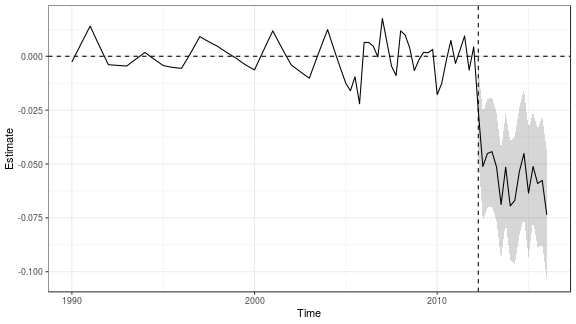
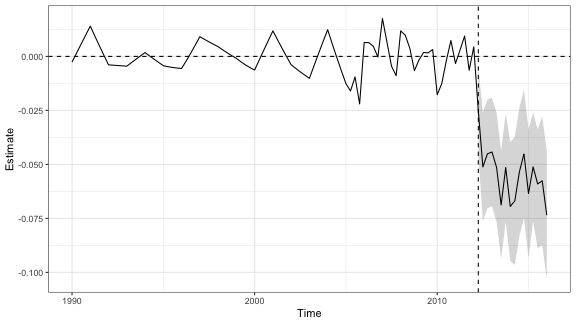
Updated single augsynth vignette to invlude test statistic change

diff --git a/vignettes/singlesynth-vignette.md b/vignettes/singlesynth-vignette.md
@@ -77,32 +77,105 @@ summary(syn)
 #> single_augsynth(form = form, unit = !!enquo(unit), time = !!enquo(time), 
 #>     t_int = t_int, data = data, progfunc = "None", scm = ..2)
 #> 
-#> Average ATT Estimate (p Value for Joint Null):  -0.029   ( 0.342 )
+#> Average ATT Estimate (p Value for Joint Null):  -0.029   ( 0.323 )
 #> L2 Imbalance: 0.083
 #> Percent improvement from uniform weights: 79.5%
 #> 
-#> Avg Estimated Bias: 0.000
+#> Avg Estimated Bias: NA
 #> 
 #> Inference type: Conformal inference
 #> 
-#>     Time    Estimate 95% CI Lower Bound 95% CI Upper Bound    p Value
-#>  2012.25 -0.01807275        -0.04461946       0.0059457035 0.11111111
-#>  2012.50 -0.04105313        -0.07012810      -0.0145064170 0.02222222
-#>  2012.75 -0.03310023        -0.06217519      -0.0065535146 0.04444444
-#>  2013.00 -0.01940747        -0.04595418       0.0046109870 0.11111111
-#>  2013.25 -0.02915453        -0.05317298      -0.0051360786 0.04444444
-#>  2013.50 -0.04626635        -0.07281306      -0.0222478978 0.02222222
-#>  2013.75 -0.03181209        -0.05583054      -0.0103218972 0.02222222
-#>  2014.00 -0.04476664        -0.07384161      -0.0182199278 0.02222222
-#>  2014.25 -0.04267269        -0.07427592      -0.0135977204 0.02222222
-#>  2014.50 -0.02940448        -0.06100771      -0.0003295131 0.04444444
-#>  2014.75 -0.01849616        -0.05262764       0.0105788120 0.14444444
-#>  2015.00 -0.02930564        -0.06596539       0.0048258429 0.07777778
-#>  2015.25 -0.01908377        -0.05068700       0.0099911959 0.12222222
-#>  2015.50 -0.02162342        -0.05575491       0.0074515445 0.11111111
-#>  2015.75 -0.01856676        -0.05522650       0.0130364708 0.18888889
-#>  2016.00 -0.02816962        -0.06735762       0.0084901215 0.10000000
+#>     Time Estimate 95% CI Lower Bound 95% CI Upper Bound p Value
+#>  2012.25   -0.018             -0.045              0.006   0.111
+#>  2012.50   -0.041             -0.070             -0.015   0.022
+#>  2012.75   -0.033             -0.062             -0.007   0.044
+#>  2013.00   -0.019             -0.046              0.005   0.111
+#>  2013.25   -0.029             -0.053             -0.005   0.044
+#>  2013.50   -0.046             -0.073             -0.022   0.022
+#>  2013.75   -0.032             -0.056             -0.010   0.022
+#>  2014.00   -0.045             -0.074             -0.018   0.022
+#>  2014.25   -0.043             -0.074             -0.014   0.022
+#>  2014.50   -0.029             -0.061              0.000   0.044
+#>  2014.75   -0.018             -0.053              0.011   0.144
+#>  2015.00   -0.029             -0.066              0.005   0.078
+#>  2015.25   -0.019             -0.051              0.010   0.122
+#>  2015.50   -0.022             -0.056              0.007   0.111
+#>  2015.75   -0.019             -0.055              0.013   0.189
+#>  2016.00   -0.028             -0.067              0.008   0.100
 ```
+
+
+The default test statistic is the sum of the absolute treatment efects `function(x) sum(abs(x))`. We can change the test statistic via the `stat_func` argument. For instance, if we want to perform a one-way test against postive effects, we can set the test stastic to be the negative sum `function(x) -sum(x)`:
+
+```r
+summary(syn, stat_func = function(x) -sum(x))
+#> 
+#> Call:
+#> single_augsynth(form = form, unit = !!enquo(unit), time = !!enquo(time), 
+#>     t_int = t_int, data = data, progfunc = "None", scm = ..2)
+#> 
+#> Average ATT Estimate (p Value for Joint Null):  -0.029   ( 0.161 )
+#> L2 Imbalance: 0.083
+#> Percent improvement from uniform weights: 79.5%
+#> 
+#> Avg Estimated Bias: NA
+#> 
+#> Inference type: Conformal inference
+#> 
+#>     Time Estimate 95% CI Lower Bound 95% CI Upper Bound p Value
+#>  2012.25   -0.018             -0.080              0.006   0.067
+#>  2012.50   -0.041             -0.103             -0.015   0.022
+#>  2012.75   -0.033             -0.095             -0.007   0.033
+#>  2013.00   -0.019             -0.081              0.005   0.067
+#>  2013.25   -0.029             -0.091             -0.005   0.033
+#>  2013.50   -0.046             -0.108             -0.022   0.022
+#>  2013.75   -0.032             -0.094             -0.010   0.022
+#>  2014.00   -0.045             -0.107             -0.021   0.022
+#>  2014.25   -0.043             -0.105             -0.014   0.022
+#>  2014.50   -0.029             -0.091              0.000   0.033
+#>  2014.75   -0.018             -0.080              0.011   0.078
+#>  2015.00   -0.029             -0.091              0.005   0.056
+#>  2015.25   -0.019             -0.081              0.007   0.078
+#>  2015.50   -0.022             -0.084              0.007   0.067
+#>  2015.75   -0.019             -0.081              0.013   0.111
+#>  2016.00   -0.028             -0.090              0.008   0.067
+```
+Or if we want to priotize testing the average post-treatment effect, we can set it to be the absolute sum:
+
+```r
+summary(syn, stat_func = function(x) sum(x))
+#> 
+#> Call:
+#> single_augsynth(form = form, unit = !!enquo(unit), time = !!enquo(time), 
+#>     t_int = t_int, data = data, progfunc = "None", scm = ..2)
+#> 
+#> Average ATT Estimate (p Value for Joint Null):  -0.029   ( 0.828 )
+#> L2 Imbalance: 0.083
+#> Percent improvement from uniform weights: 79.5%
+#> 
+#> Avg Estimated Bias: NA
+#> 
+#> Inference type: Conformal inference
+#> 
+#>     Time Estimate 95% CI Lower Bound 95% CI Upper Bound p Value
+#>  2012.25   -0.018             -0.035              0.044   0.944
+#>  2012.50   -0.041             -0.060              0.021   0.989
+#>  2012.75   -0.033             -0.052              0.029   0.978
+#>  2013.00   -0.019             -0.038              0.043   0.944
+#>  2013.25   -0.029             -0.046              0.033   0.978
+#>  2013.50   -0.046             -0.065              0.016   0.989
+#>  2013.75   -0.032             -0.048              0.030   0.989
+#>  2014.00   -0.045             -0.064              0.017   0.989
+#>  2014.25   -0.043             -0.064              0.019   0.989
+#>  2014.50   -0.029             -0.051              0.033   0.978
+#>  2014.75   -0.018             -0.040              0.043   0.933
+#>  2015.00   -0.029             -0.053              0.033   0.956
+#>  2015.25   -0.019             -0.041              0.043   0.933
+#>  2015.50   -0.022             -0.043              0.040   0.944
+#>  2015.75   -0.019             -0.043              0.043   0.900
+#>  2016.00   -0.028             -0.055              0.034   0.944
+```
+
 
 It's easier to see this information visually. Below we plot the difference between Kansas and it's synthetic control. Before the tax cuts (to the left of the dashed line) we expect these to be close, and after the tax cuts we measure the effect (with point-wise confidence intervals).
 
@@ -152,31 +225,31 @@ summary(asyn)
 #> single_augsynth(form = form, unit = !!enquo(unit), time = !!enquo(time), 
 #>     t_int = t_int, data = data, progfunc = "Ridge", scm = ..2)
 #> 
-#> Average ATT Estimate (p Value for Joint Null):  -0.040   ( 0.079 )
+#> Average ATT Estimate (p Value for Joint Null):  -0.040   ( 0.075 )
 #> L2 Imbalance: 0.062
 #> Percent improvement from uniform weights: 84.7%
 #> 
-#> Avg Estimated Bias: 0.000
+#> Avg Estimated Bias: 0.011
 #> 
 #> Inference type: Conformal inference
 #> 
-#>     Time    Estimate 95% CI Lower Bound 95% CI Upper Bound    p Value
-#>  2012.25 -0.02233432        -0.04432874        0.003043846 0.05555556
-#>  2012.50 -0.04703842        -0.07580034       -0.018276493 0.02222222
-#>  2012.75 -0.04252002        -0.07128194       -0.010374336 0.02222222
-#>  2013.00 -0.02967474        -0.05505291       -0.004296572 0.03333333
-#>  2013.25 -0.04119699        -0.06657516       -0.012435060 0.02222222
-#>  2013.50 -0.05922698        -0.08798891       -0.030465057 0.02222222
-#>  2013.75 -0.04466913        -0.07343106       -0.019290964 0.02222222
-#>  2014.00 -0.05803598        -0.09018166       -0.025890300 0.02222222
-#>  2014.25 -0.05516412        -0.09069356       -0.019634680 0.02222222
-#>  2014.50 -0.04148561        -0.08039881       -0.005956177 0.03333333
-#>  2014.75 -0.02923219        -0.06814538        0.006297248 0.05555556
-#>  2015.00 -0.04004239        -0.08233934        0.000000000 0.05555556
-#>  2015.25 -0.03045080        -0.06598023        0.001694886 0.05555556
-#>  2015.50 -0.03269061        -0.07160380        0.002838827 0.05555556
-#>  2015.75 -0.02895347        -0.07125042        0.009959725 0.05555556
-#>  2016.00 -0.03829085        -0.08735531        0.004006102 0.05555556
+#>     Time Estimate 95% CI Lower Bound 95% CI Upper Bound p Value
+#>  2012.25   -0.022             -0.044              0.003   0.056
+#>  2012.50   -0.047             -0.076             -0.018   0.022
+#>  2012.75   -0.043             -0.071             -0.010   0.022
+#>  2013.00   -0.030             -0.055             -0.004   0.033
+#>  2013.25   -0.041             -0.067             -0.012   0.022
+#>  2013.50   -0.059             -0.088             -0.030   0.022
+#>  2013.75   -0.045             -0.073             -0.019   0.022
+#>  2014.00   -0.058             -0.090             -0.026   0.022
+#>  2014.25   -0.055             -0.091             -0.020   0.022
+#>  2014.50   -0.041             -0.080             -0.006   0.033
+#>  2014.75   -0.029             -0.068              0.006   0.056
+#>  2015.00   -0.040             -0.082              0.000   0.056
+#>  2015.25   -0.030             -0.066              0.002   0.056
+#>  2015.50   -0.033             -0.072              0.003   0.056
+#>  2015.75   -0.029             -0.071              0.010   0.056
+#>  2016.00   -0.038             -0.087              0.004   0.056
 ```
 
 
@@ -213,27 +286,27 @@ summary(covsyn)
 #> Covariate L2 Imbalance: 0.005
 #> Percent improvement from uniform weights: 97.7%
 #> 
-#> Avg Estimated Bias: 0.000
+#> Avg Estimated Bias: 0.027
 #> 
 #> Inference type: Conformal inference
 #> 
-#>     Time    Estimate 95% CI Lower Bound 95% CI Upper Bound    p Value
-#>  2012.25 -0.02122181        -0.04426538        0.001821765 0.06666667
-#>  2012.50 -0.04738718        -0.07555155       -0.014102025 0.03333333
-#>  2012.75 -0.05010828        -0.08339344       -0.006581536 0.03333333
-#>  2013.00 -0.04536410        -0.07352846       -0.012078937 0.03333333
-#>  2013.25 -0.05507918        -0.08836434       -0.021794026 0.02222222
-#>  2013.50 -0.07128399        -0.10456915       -0.032878035 0.02222222
-#>  2013.75 -0.05791368        -0.09119884       -0.024628522 0.02222222
-#>  2014.00 -0.08098791        -0.11939386       -0.037461166 0.02222222
-#>  2014.25 -0.07794667        -0.12147342       -0.034419927 0.02222222
-#>  2014.50 -0.06491981        -0.11356735       -0.021393066 0.03333333
-#>  2014.75 -0.05655804        -0.11032637       -0.007910500 0.04444444
-#>  2015.00 -0.07529028        -0.12393781       -0.021521943 0.03333333
-#>  2015.25 -0.06264739        -0.10617414       -0.013999852 0.03333333
-#>  2015.50 -0.06715143        -0.10555738       -0.018503886 0.02222222
-#>  2015.75 -0.06292093        -0.10132689       -0.009152601 0.02222222
-#>  2016.00 -0.07820946        -0.12173621       -0.019320335 0.02222222
+#>     Time Estimate 95% CI Lower Bound 95% CI Upper Bound p Value
+#>  2012.25   -0.021             -0.044              0.002   0.067
+#>  2012.50   -0.047             -0.076             -0.014   0.033
+#>  2012.75   -0.050             -0.083             -0.007   0.033
+#>  2013.00   -0.045             -0.074             -0.012   0.033
+#>  2013.25   -0.055             -0.088             -0.022   0.022
+#>  2013.50   -0.071             -0.105             -0.033   0.022
+#>  2013.75   -0.058             -0.091             -0.025   0.022
+#>  2014.00   -0.081             -0.119             -0.037   0.022
+#>  2014.25   -0.078             -0.121             -0.034   0.022
+#>  2014.50   -0.065             -0.114             -0.021   0.033
+#>  2014.75   -0.057             -0.110             -0.008   0.044
+#>  2015.00   -0.075             -0.124             -0.022   0.033
+#>  2015.25   -0.063             -0.106             -0.014   0.033
+#>  2015.50   -0.067             -0.106             -0.019   0.022
+#>  2015.75   -0.063             -0.101             -0.009   0.022
+#>  2016.00   -0.078             -0.122             -0.019   0.022
 ```
 
 
@@ -264,34 +337,34 @@ summary(covsyn_resid)
 #>     t_int = t_int, data = data, progfunc = "ridge", scm = ..2, 
 #>     lambda = ..3, residualize = ..4)
 #> 
-#> Average ATT Estimate (p Value for Joint Null):  -0.055   ( 0.263 )
+#> Average ATT Estimate (p Value for Joint Null):  -0.055   ( 0.274 )
 #> L2 Imbalance: 0.067
 #> Percent improvement from uniform weights: 83.4%
 #> 
 #> Covariate L2 Imbalance: 0.000
 #> Percent improvement from uniform weights: 100%
 #> 
-#> Avg Estimated Bias: 0.000
+#> Avg Estimated Bias: 0.006
 #> 
 #> Inference type: Conformal inference
 #> 
-#>     Time    Estimate 95% CI Lower Bound 95% CI Upper Bound    p Value
-#>  2012.25 -0.02525882        -0.04586063       -0.004657013 0.04444444
-#>  2012.50 -0.05117098        -0.07635097       -0.025990996 0.01111111
-#>  2012.75 -0.04510912        -0.07028911       -0.019929129 0.01111111
-#>  2013.00 -0.04426158        -0.06944157       -0.019081590 0.01111111
-#>  2013.25 -0.05141523        -0.07659522       -0.026235237 0.01111111
-#>  2013.50 -0.06877787        -0.09395786       -0.043597885 0.01111111
-#>  2013.75 -0.05146447        -0.07664446       -0.026284478 0.01111111
-#>  2014.00 -0.06947218        -0.09465217       -0.039714008 0.01111111
-#>  2014.25 -0.06687073        -0.09662890       -0.037112564 0.01111111
-#>  2014.50 -0.05345641        -0.08321457       -0.023698236 0.01111111
-#>  2014.75 -0.04511139        -0.07486956       -0.015353223 0.02222222
-#>  2015.00 -0.06350431        -0.09326248       -0.033746138 0.01111111
-#>  2015.25 -0.05114785        -0.07632783       -0.025967857 0.01111111
-#>  2015.50 -0.05904546        -0.08880363       -0.033865473 0.01111111
-#>  2015.75 -0.05761259        -0.08737076       -0.027854422 0.01111111
-#>  2016.00 -0.07352702        -0.10328519       -0.043768854 0.01111111
+#>     Time Estimate 95% CI Lower Bound 95% CI Upper Bound p Value
+#>  2012.25   -0.025             -0.046             -0.005   0.044
+#>  2012.50   -0.051             -0.076             -0.026   0.011
+#>  2012.75   -0.045             -0.070             -0.020   0.011
+#>  2013.00   -0.044             -0.069             -0.019   0.011
+#>  2013.25   -0.051             -0.077             -0.026   0.011
+#>  2013.50   -0.069             -0.094             -0.044   0.011
+#>  2013.75   -0.051             -0.077             -0.026   0.011
+#>  2014.00   -0.069             -0.095             -0.040   0.011
+#>  2014.25   -0.067             -0.097             -0.037   0.011
+#>  2014.50   -0.053             -0.083             -0.024   0.011
+#>  2014.75   -0.045             -0.075             -0.015   0.022
+#>  2015.00   -0.064             -0.093             -0.034   0.011
+#>  2015.25   -0.051             -0.076             -0.026   0.011
+#>  2015.50   -0.059             -0.089             -0.034   0.011
+#>  2015.75   -0.058             -0.087             -0.028   0.011
+#>  2016.00   -0.074             -0.103             -0.044   0.011
 ```
 
 
@@ -323,31 +396,31 @@ summary(desyn)
 #>     t_int = t_int, data = data, progfunc = "none", scm = ..2, 
 #>     fixedeff = ..3)
 #> 
-#> Average ATT Estimate (p Value for Joint Null):  -0.034   ( 0.327 )
+#> Average ATT Estimate (p Value for Joint Null):  -0.034   ( 0.311 )
 #> L2 Imbalance: 0.082
 #> Percent improvement from uniform weights: 55.1%
 #> 
-#> Avg Estimated Bias: -0.016
+#> Avg Estimated Bias: NA
 #> 
 #> Inference type: Conformal inference
 #> 
-#>     Time    Estimate 95% CI Lower Bound 95% CI Upper Bound    p Value
-#>  2012.25 -0.02151900        -0.04572669        0.005536651 0.07777778
-#>  2012.50 -0.04567748        -0.06988516       -0.012925895 0.02222222
-#>  2012.75 -0.03790080        -0.06210849       -0.005149216 0.04444444
-#>  2013.00 -0.02357984        -0.04778753        0.003475817 0.07777778
-#>  2013.25 -0.03260995        -0.05681764       -0.005554297 0.04444444
-#>  2013.50 -0.05007896        -0.07428665       -0.023023308 0.02222222
-#>  2013.75 -0.03457474        -0.05593447       -0.010367055 0.02222222
-#>  2014.00 -0.04876841        -0.07297610       -0.018864793 0.02222222
-#>  2014.25 -0.04661719        -0.07082488       -0.013865611 0.02222222
-#>  2014.50 -0.03321017        -0.05741786        0.000000000 0.05555556
-#>  2014.75 -0.02265951        -0.04686720        0.010092066 0.12222222
-#>  2015.00 -0.03425329        -0.06130895        0.004194214 0.07777778
-#>  2015.25 -0.02292051        -0.04712820        0.006983109 0.10000000
-#>  2015.50 -0.02572370        -0.05277935        0.007027882 0.10000000
-#>  2015.75 -0.02320911        -0.05026476        0.012390434 0.14444444
-#>  2016.00 -0.03314605        -0.06589763        0.008149422 0.08888889
+#>     Time Estimate 95% CI Lower Bound 95% CI Upper Bound p Value
+#>  2012.25   -0.022             -0.046              0.006   0.078
+#>  2012.50   -0.046             -0.070             -0.013   0.022
+#>  2012.75   -0.038             -0.062             -0.005   0.044
+#>  2013.00   -0.024             -0.048              0.003   0.078
+#>  2013.25   -0.033             -0.057             -0.006   0.044
+#>  2013.50   -0.050             -0.074             -0.023   0.022
+#>  2013.75   -0.035             -0.056             -0.010   0.022
+#>  2014.00   -0.049             -0.073             -0.019   0.022
+#>  2014.25   -0.047             -0.071             -0.014   0.022
+#>  2014.50   -0.033             -0.057              0.000   0.056
+#>  2014.75   -0.023             -0.047              0.010   0.122
+#>  2015.00   -0.034             -0.061              0.004   0.078
+#>  2015.25   -0.023             -0.047              0.007   0.100
+#>  2015.50   -0.026             -0.053              0.007   0.100
+#>  2015.75   -0.023             -0.050              0.012   0.144
+#>  2016.00   -0.033             -0.066              0.008   0.089
 ```
 
 
